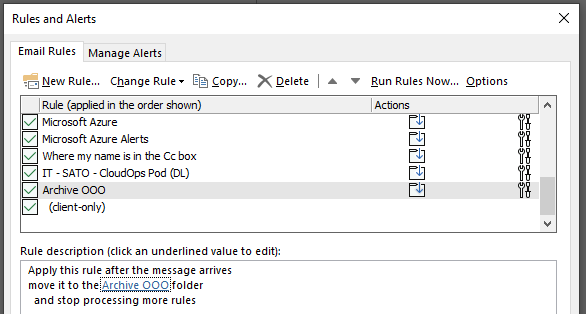
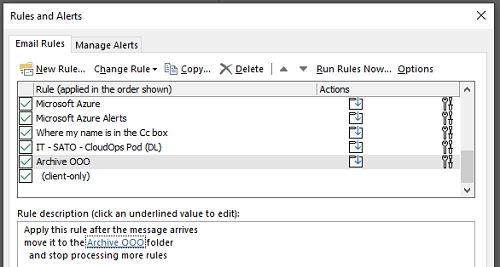
Typo correction and redice image size

diff --git a/content/optimize-and-avoid-emails.md b/content/optimize-and-avoid-emails.md
@@ -23,7 +23,7 @@ Unfortunately, we just wasted hours of previous time we could have used for more
 - Users will automatically loop other users into their email thread if they realise you are out of office or touch base with you again when you return.
 
 >
-> Every second you waste on outdated email is **WASTE**!
+> Every second you spend on outdated email is **WASTE**!
 >
 
 ---
